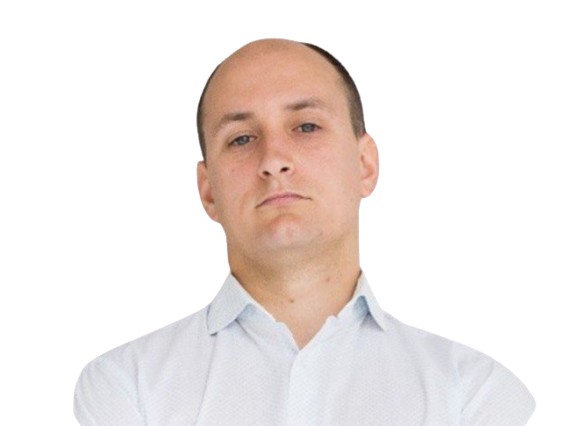
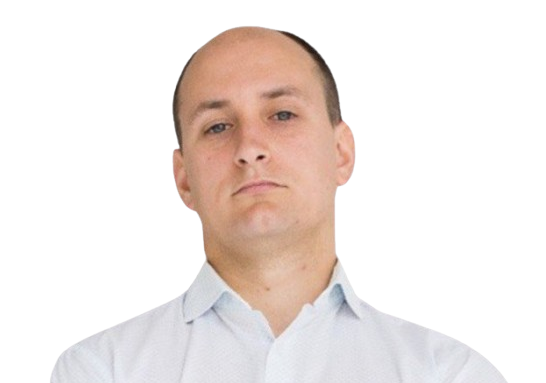
Updated IntroSection with dark elegant background

diff --git a/src/components/sections/WhoWeAre.tsx b/src/components/sections/WhoWeAre.tsx
@@ -191,50 +191,75 @@ const WhoWeAreSection: React.FC = () => {
     paddingLeft: '0'
   };
 
-  // Вертикальная линия таймлайна - новый подход с брендовыми цветами
+  // Вертикальная линия таймлайна
   const timelineLineStyles = {
     position: 'absolute' as const,
     top: '0',
     bottom: '0',
-    left: '16px', // Смещаем линию левее
-    width: '6px',
-    background: 'linear-gradient(to bottom, #00837f 0%, #00837f 30%, #00837f 50%, #241e46 100%)',
-    borderRadius: '3px',
+    left: '18px', // Центрируем линию с маркерами
+    width: '3px',
+    background: 'linear-gradient(to bottom, #00837f 0%, #00837f 40%, #241e46 100%)',
     zIndex: 1
   };
 
   const timelineItemStyles = {
     position: 'relative' as const,
     marginBottom: isMobile ? '25px' : '60px',
-    paddingLeft: '50px',
+    paddingLeft: '60px', // Увеличиваем отступ для содержимого
     display: 'flex',
     flexDirection: 'column' as const
   };
 
-  // Убираем маркеры полностью (скрываем их)
+  // Маркеры таймлайна
   const timelineMarkerStyles = {
-    display: 'none'
+    position: 'absolute' as const,
+    left: '3px', // Позиционируем маркеры по центру линии
+    top: '8px',
+    width: '30px',
+    height: '30px',
+    backgroundColor: '#fff',
+    borderRadius: '50%',
+    display: 'flex',
+    alignItems: 'center' as const,
+    justifyContent: 'center' as const,
+    zIndex: 2,
+    border: '3px solid #00837f'
   };
 
-  // Белый круг внутри маркера тоже скрываем
+  // Внутренний круг маркера
   const timelineMarkerInnerStyles = {
-    display: 'none'
+    width: '14px',
+    height: '14px',
+    backgroundColor: '#00837f',
+    borderRadius: '50%',
+    zIndex: 3
   };
 
-  // Варианты маркеров для разных годов тоже скрываем
+  // Варианты маркеров для разных годов
   const timelineMarker2023Styles = {
-    display: 'none'
+    ...timelineMarkerStyles,
+    border: '3px solid #00837f' // Средний бирюзовый
   };
 
   const timelineMarker2027Styles = {
-    display: 'none'
+    ...timelineMarkerStyles,
+    border: '3px solid #241e46' // Темно-синий
   };
 
-  // Новые стили для годов в таймлайне
+  // Новые стили для годов в таймлайне - 2022 (бирюзовый)
   const timelineYearStyles = {
     fontSize: isMobile ? 'var(--h3-mobile)' : 'var(--h3-desktop)',
     fontWeight: 'bold' as const,
-    background: 'linear-gradient(to right, #00837f, #00837f)',
+    color: '#00837f', // Бирюзовый для 2022
+    marginBottom: isMobile ? '10px' : '15px',
+    lineHeight: '1'
+  };
+
+  // 2023 (градиент)
+  const timelineYear2023Styles = {
+    fontSize: isMobile ? 'var(--h3-mobile)' : 'var(--h3-desktop)',
+    fontWeight: 'bold' as const,
+    background: 'linear-gradient(to right, #00837f, #241e46)',
     WebkitBackgroundClip: 'text' as const,
     backgroundClip: 'text' as const,
     WebkitTextFillColor: 'transparent' as const,
@@ -242,35 +267,27 @@ const WhoWeAreSection: React.FC = () => {
     lineHeight: '1'
   };
 
-  const timelineYear2023Styles = {
-    ...timelineYearStyles,
-    background: 'linear-gradient(to right, #00837f, #241e46)',
-    WebkitBackgroundClip: 'text' as const,
-    backgroundClip: 'text' as const,
-    WebkitTextFillColor: 'transparent' as const
-  };
-
+  // 2027 (темно-синий)
   const timelineYear2027Styles = {
-    ...timelineYearStyles,
-    background: 'linear-gradient(to right, #241e46, #241e46)',
-    WebkitBackgroundClip: 'text' as const,
-    backgroundClip: 'text' as const,
-    WebkitTextFillColor: 'transparent' as const
+    fontSize: isMobile ? 'var(--h3-mobile)' : 'var(--h3-desktop)',
+    fontWeight: 'bold' as const,
+    color: '#241e46', // Темно-синий для 2027
+    marginBottom: isMobile ? '10px' : '15px',
+    lineHeight: '1'
   };
 
   const timelineContentStyles = {
     padding: '0'
   };
 
-  // Изменяю стили текста для описаний в таймлайне - теперь как текст под About Us
+  // Стили для текста в таймлайне
   const timelineTextStyles = {
     marginTop: isMobile ? '8px' : '12px', 
     marginBottom: '0', 
     color: '#555', 
     lineHeight: '1.6',
-    fontSize: isMobile ? '0.9rem' : '1.1rem',
-    listStyleType: 'none',
-    paddingLeft: '0'
+    fontSize: isMobile ? '0.9rem' : '1rem',
+    position: 'relative' as const
   };
 
   // Стили для адаптивности
@@ -317,8 +334,17 @@ const WhoWeAreSection: React.FC = () => {
   // Add custom styles for Dan's photo
   const ceoPhotoStyles = {
     width: '90%', // Larger than the default 80%
-    height: '105%', // Slightly taller
-    objectFit: 'contain' as const
+    height: '100%', // Changed from 105% to 100% to align bottoms
+    objectFit: 'contain' as const,
+    objectPosition: 'bottom' // Align image to bottom
+  };
+
+  // Update the CTO photo style to also align to bottom
+  const ctoPhotoStyles = {
+    width: '80%',
+    height: '100%',
+    objectFit: 'contain' as const,
+    objectPosition: 'bottom' // Align image to bottom
   };
 
   return (
@@ -357,7 +383,7 @@ const WhoWeAreSection: React.FC = () => {
                 <img 
                   src="/images/Dmitri.png" 
                   alt="Dmitry Semchenko" 
-                  style={founderPhotoImgStyles}
+                  style={ctoPhotoStyles}
                 />
               </div>
               <div style={{ flex: 1, display: 'flex', flexDirection: 'column' as const }}>
@@ -406,7 +432,7 @@ const WhoWeAreSection: React.FC = () => {
               <div style={timelineContentStyles}>
                 <div style={timelineYearStyles}>2022</div>
                 <p style={timelineTextStyles}>
-                  Founded as a sales-focused entity sourcing diamonds from a partner facility in India.
+                  Founded as a sales-focused entity sourcing diamonds from a partner facility in India
                 </p>
               </div>
             </div>
@@ -419,7 +445,7 @@ const WhoWeAreSection: React.FC = () => {
               <div style={timelineContentStyles}>
                 <div style={timelineYear2023Styles}>2023</div>
                 <p style={timelineTextStyles}>
-                  Expanded partnerships and client base across quantum technology sector.
+                  Expanded partnerships and client base across quantum technology sector
                 </p>
               </div>
             </div>
@@ -432,7 +458,7 @@ const WhoWeAreSection: React.FC = () => {
               <div style={timelineContentStyles}>
                 <div style={timelineYear2027Styles}>2027</div>
                 <p style={timelineTextStyles}>
-                  Planned establishment of own AHPHT production facility.
+                  Planned establishment of own AHPHT production facility
                 </p>
               </div>
             </div>

diff --git a/src/components/sections/IntroSection.tsx b/src/components/sections/IntroSection.tsx
@@ -310,29 +310,40 @@ const IntroSection: React.FC = () => {
         {/* Новый блок с текстом на градиентном фоне */}
         <div style={{
           width: '100%',
-          height: isMobile ? '250px' : '200px',
+          height: isMobile ? '300px' : '200px',
           background: 'linear-gradient(to right, #00837f, #241e46)',
           display: 'flex',
           alignItems: 'center',
-          justifyContent: 'center',
+          justifyContent: isMobile ? 'flex-start' : 'center',
           marginTop: isMobile ? '20px' : '40px',
           marginBottom: isMobile ? '40px' : '100px',
           position: 'relative',
           zIndex: 2
         }}>
-          <p style={{
+          <div style={{
             color: 'white',
-            fontSize: isMobile ? 'var(--h2-mobile)' : 'var(--h1-desktop)',
+            fontSize: isMobile ? 'var(--h1-mobile)' : 'var(--h1-desktop)',
             fontWeight: 'bold',
-            textAlign: 'center',
-            padding: '0 20px',
+            textAlign: isMobile ? 'left' : 'center',
+            padding: isMobile ? '0 30px' : '0 20px',
             maxWidth: '1400px',
             margin: '0 auto',
             letterSpacing: '0.5px',
-            lineHeight: '1.2'
+            lineHeight: '1.4',
+            width: '100%'
           }}>
-            Engineered for excellence. Trusted for precision. Perfect for advanced applications.
-          </p>
+            {isMobile ? (
+              <div style={{ textAlign: 'left', width: '100%' }}>
+                <p style={{ margin: '0 0 15px 0', fontSize: '2rem', textAlign: 'left', color: 'white' }}>Engineered for excellence.</p>
+                <p style={{ margin: '0 0 15px 0', fontSize: '2rem', textAlign: 'left', color: 'white' }}>Trusted for precision.</p>
+                <p style={{ margin: '0', fontSize: '2rem', textAlign: 'left', color: 'white' }}>Perfect for advanced applications.</p>
+              </div>
+            ) : (
+              <p style={{ margin: '0', color: 'white' }}>
+                Engineered for excellence. Trusted for precision. Perfect for advanced applications.
+              </p>
+            )}
+          </div>
         </div>
       </div>
     </section>

diff --git a/src/components/sections/ProductsSection.tsx b/src/components/sections/ProductsSection.tsx
@@ -28,12 +28,13 @@ const ProductsSection: React.FC = () => {
       title: "Diamond Substrates",
       image: "/images/photo1.1.png",
       specs: [
-        "Type IIa single-crystal plates.",
-        "Sizes: 3x3 mm to 15x15 mm; Thickness: 0.1-10 mm.",
-        "Purity: ≤5 ppb Nitrogen.",
-        "Dislocations: As low as 10¹ cm⁻².",
-        "Surface: Polished up to 0.5 nm Ra.",
-        "Customizable: Shapes, orientations ((100), (111), (110), etc.), miscut."
+        "Type IIa single-crystal plates",
+        "Sizes: 3x3 mm to 15x15 mm",
+        "Thickness: 0.1-10 mm",
+        "Purity: ≤5 ppb Nitrogen",
+        "Dislocations: As low as 10¹ cm⁻²",
+        "Surface: Polished up to 0.5 nm Ra",
+        "Customizable: Shapes, orientations ((100), (111), (110), etc.), miscut"
       ]
     },
     {
@@ -42,9 +43,9 @@ const ProductsSection: React.FC = () => {
       image: "/images/photo1.2.png",
       specs: [
         "Diameters: 2.5-4 mm.",
-        "Designs: Smooth or faceted.",
-        "Table orientation: (100) standard, custom available.",
-        "Quality: No inclusions and defects at 50x magnification, low birefringence."
+        "Designs: Smooth or faceted",
+        "Table orientation: (100) standard, custom available",
+        "Quality: No inclusions and defects at 50x magnification, low birefringence"
       ]
     },
     {
@@ -52,7 +53,7 @@ const ProductsSection: React.FC = () => {
       title: "Custom Products",
       image: "/images/photo1.3.png",
       specs: [
-        "Lenses, optical windows and any shape per client specs."
+        "Lenses, optical windows and any shape per client specs"
       ]
     }
   ];

diff --git a/src/components/sections/MissionSection.tsx b/src/components/sections/MissionSection.tsx
@@ -21,8 +21,8 @@ const MissionSection = () => {
       id="mission" 
       className="mission-section" 
       style={{ 
-        paddingTop: isMobile ? '220px' : '180px',
-        paddingBottom: isMobile ? '220px' : '180px',
+        paddingTop: isMobile ? '100px' : '180px',
+        paddingBottom: isMobile ? '100px' : '180px',
         backgroundColor: '#fff',
         position: 'relative',
         overflow: 'hidden',
@@ -41,7 +41,7 @@ const MissionSection = () => {
               src="/images/Logo.png" 
               alt="FTDiam Logo" 
               className="mission-logo" 
-              style={{ width: isMobile ? '120px' : '150px' }}
+              style={{ width: isMobile ? '140px' : '300px' }}
             />
           </div>
           
